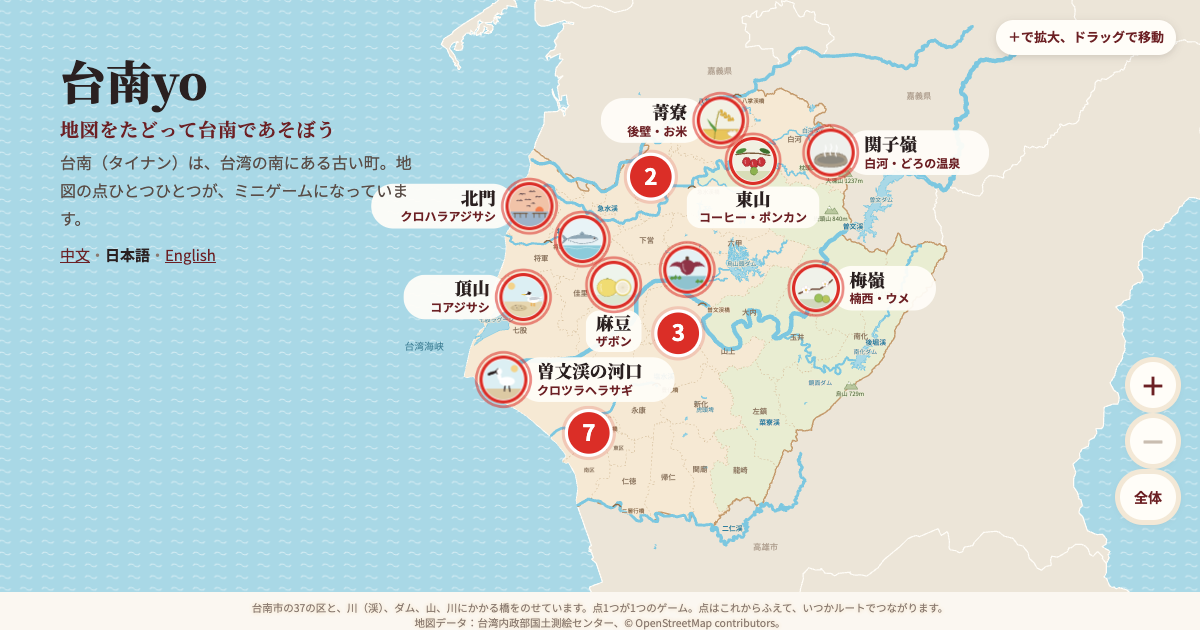
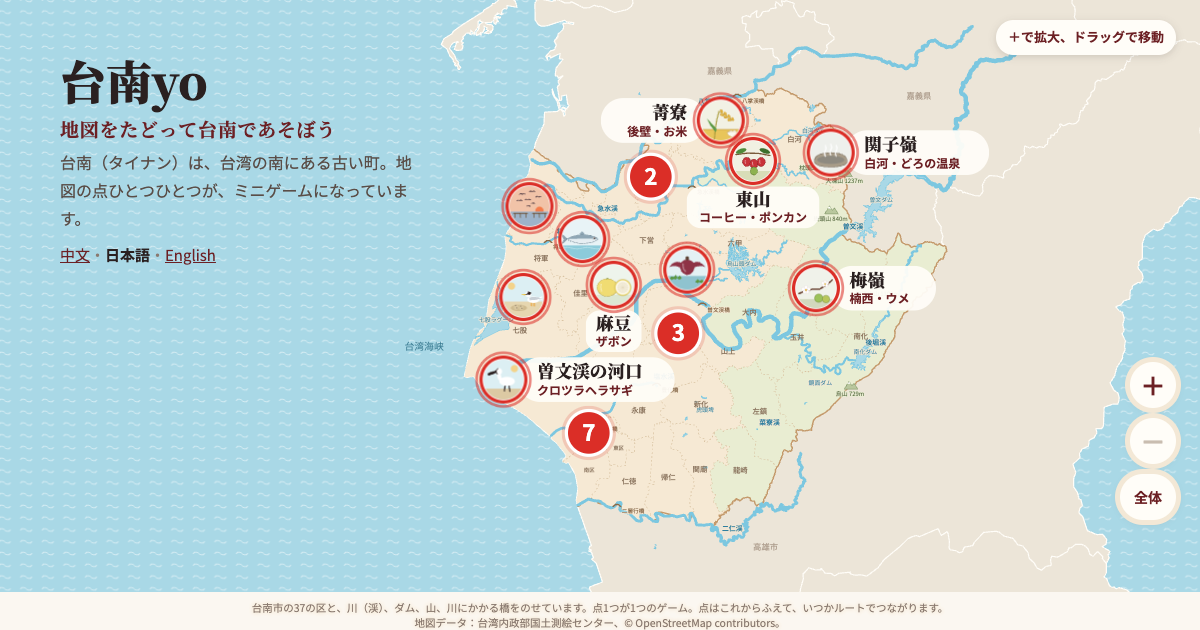
更新網站 2026-10-20 13:37

Changed region(s): [[0.3083, 0.2714, 0.4317, 0.3619], [0.3392, 0.4222, 0.4317, 0.5127]]

diff --git a/ja/index.html b/ja/index.html
@@ -720,6 +720,8 @@ rt{font-size:.5em;font-weight:400;letter-spacing:0}
       if(hit){hit.m.push(j);hit.x=hit.m.reduce(function(a,i){return a+P[i].x},0)/hit.m.length;hit.y=hit.m.reduce(function(a,i){return a+P[i].y},0)/hit.m.length}
       else G.push({x:p.x,y:p.y,m:[j]})});
     var boxes=G.map(function(q){return [q.x-R,q.y-R,q.x+R,q.y+R]});
+    // 電腦上標題浮在地圖左邊的海上：名牌和區名都要避開標題的字（外語的介紹比較長，2026-10-20 會疊到北門）
+    var tb=titleBox();if(tb)boxes.push(tb);
     function free(b){return !boxes.some(function(o){return b[0]<o[2]&&b[2]>o[0]&&b[1]<o[3]&&b[3]>o[1]})}
     var dv=dims(),vx0=cx-dv.W/2/sc,vx1=cx+dv.W/2/sc,vy0=cy-dv.H/2/sc,vy1=cy+dv.H/2/sc;
     function inView(b){return b[0]>=vx0&&b[2]<=vx1&&b[1]>=vy0&&b[3]<=vy1}
@@ -740,6 +742,11 @@ rt{font-size:.5em;font-weight:400;letter-spacing:0}
         '<circle r="34" fill="#DB2E27" opacity=".18"/><circle r="28" fill="#DB2E27" stroke="#fff" stroke-width="4"/><text y="10" font-size="28" font-weight="900" fill="#fff" text-anchor="middle" font-family="Noto Sans JP,sans-serif">'+n+'</text></g>'}).join('');
     dists.forEach(function(d){d.t.style.display=boxes.some(function(o){return d.x>o[0]-10&&d.x<o[2]+10&&d.y>o[1]-6&&d.y<o[3]+12})?'none':''});
   }
+  var heroT=document.querySelector('.hero-title');
+  function titleBox(){if(!heroT)return null;var t=heroT.getBoundingClientRect(),b=box.getBoundingClientRect(),d=dims(),m=10;
+    if(t.bottom<=b.top||t.top>=b.bottom||t.right<=b.left||t.left>=b.right)return null;
+    function X(s){return cx+(s-b.left-d.W/2)/sc}function Y(s){return cy+(s-b.top-d.H/2)/sc}
+    return [X(t.left-m),Y(t.top-m),X(t.right+m),Y(t.bottom+m)]}
   function f2(v){return Math.round(v*10)/10}
   clG.addEventListener('click',function(e){var t=e.target.closest('.cl');if(!t)return;e.stopPropagation();var q=CL[+t.dataset.c];if(!q)return;
     if(sc>=maxS*.98){openList(q.m);return}

diff --git a/index.html b/index.html
@@ -720,6 +720,8 @@ b{font-weight:700;color:var(--ink)}
       if(hit){hit.m.push(j);hit.x=hit.m.reduce(function(a,i){return a+P[i].x},0)/hit.m.length;hit.y=hit.m.reduce(function(a,i){return a+P[i].y},0)/hit.m.length}
       else G.push({x:p.x,y:p.y,m:[j]})});
     var boxes=G.map(function(q){return [q.x-R,q.y-R,q.x+R,q.y+R]});
+    // 電腦上標題浮在地圖左邊的海上：名牌和區名都要避開標題的字（外語的介紹比較長，2026-10-20 會疊到北門）
+    var tb=titleBox();if(tb)boxes.push(tb);
     function free(b){return !boxes.some(function(o){return b[0]<o[2]&&b[2]>o[0]&&b[1]<o[3]&&b[3]>o[1]})}
     var dv=dims(),vx0=cx-dv.W/2/sc,vx1=cx+dv.W/2/sc,vy0=cy-dv.H/2/sc,vy1=cy+dv.H/2/sc;
     function inView(b){return b[0]>=vx0&&b[2]<=vx1&&b[1]>=vy0&&b[3]<=vy1}
@@ -740,6 +742,11 @@ b{font-weight:700;color:var(--ink)}
         '<circle r="34" fill="#DB2E27" opacity=".18"/><circle r="28" fill="#DB2E27" stroke="#fff" stroke-width="4"/><text y="10" font-size="28" font-weight="900" fill="#fff" text-anchor="middle" font-family="Noto Sans TC,sans-serif">'+n+'</text></g>'}).join('');
     dists.forEach(function(d){d.t.style.display=boxes.some(function(o){return d.x>o[0]-10&&d.x<o[2]+10&&d.y>o[1]-6&&d.y<o[3]+12})?'none':''});
   }
+  var heroT=document.querySelector('.hero-title');
+  function titleBox(){if(!heroT)return null;var t=heroT.getBoundingClientRect(),b=box.getBoundingClientRect(),d=dims(),m=10;
+    if(t.bottom<=b.top||t.top>=b.bottom||t.right<=b.left||t.left>=b.right)return null;
+    function X(s){return cx+(s-b.left-d.W/2)/sc}function Y(s){return cy+(s-b.top-d.H/2)/sc}
+    return [X(t.left-m),Y(t.top-m),X(t.right+m),Y(t.bottom+m)]}
   function f2(v){return Math.round(v*10)/10}
   clG.addEventListener('click',function(e){var t=e.target.closest('.cl');if(!t)return;e.stopPropagation();var q=CL[+t.dataset.c];if(!q)return;
     if(sc>=maxS*.98){openList(q.m);return}

diff --git a/en/index.html b/en/index.html
@@ -718,6 +718,8 @@ b{font-weight:700;color:var(--ink)}
       if(hit){hit.m.push(j);hit.x=hit.m.reduce(function(a,i){return a+P[i].x},0)/hit.m.length;hit.y=hit.m.reduce(function(a,i){return a+P[i].y},0)/hit.m.length}
       else G.push({x:p.x,y:p.y,m:[j]})});
     var boxes=G.map(function(q){return [q.x-R,q.y-R,q.x+R,q.y+R]});
+    // 電腦上標題浮在地圖左邊的海上：名牌和區名都要避開標題的字（外語的介紹比較長，2026-10-20 會疊到北門）
+    var tb=titleBox();if(tb)boxes.push(tb);
     function free(b){return !boxes.some(function(o){return b[0]<o[2]&&b[2]>o[0]&&b[1]<o[3]&&b[3]>o[1]})}
     var dv=dims(),vx0=cx-dv.W/2/sc,vx1=cx+dv.W/2/sc,vy0=cy-dv.H/2/sc,vy1=cy+dv.H/2/sc;
     function inView(b){return b[0]>=vx0&&b[2]<=vx1&&b[1]>=vy0&&b[3]<=vy1}
@@ -738,6 +740,11 @@ b{font-weight:700;color:var(--ink)}
         '<circle r="34" fill="#DB2E27" opacity=".18"/><circle r="28" fill="#DB2E27" stroke="#fff" stroke-width="4"/><text y="10" font-size="28" font-weight="900" fill="#fff" text-anchor="middle" font-family="Noto Sans,sans-serif">'+n+'</text></g>'}).join('');
     dists.forEach(function(d){d.t.style.display=boxes.some(function(o){return d.x>o[0]-10&&d.x<o[2]+10&&d.y>o[1]-6&&d.y<o[3]+12})?'none':''});
   }
+  var heroT=document.querySelector('.hero-title');
+  function titleBox(){if(!heroT)return null;var t=heroT.getBoundingClientRect(),b=box.getBoundingClientRect(),d=dims(),m=10;
+    if(t.bottom<=b.top||t.top>=b.bottom||t.right<=b.left||t.left>=b.right)return null;
+    function X(s){return cx+(s-b.left-d.W/2)/sc}function Y(s){return cy+(s-b.top-d.H/2)/sc}
+    return [X(t.left-m),Y(t.top-m),X(t.right+m),Y(t.bottom+m)]}
   function f2(v){return Math.round(v*10)/10}
   clG.addEventListener('click',function(e){var t=e.target.closest('.cl');if(!t)return;e.stopPropagation();var q=CL[+t.dataset.c];if(!q)return;
     if(sc>=maxS*.98){openList(q.m);return}
